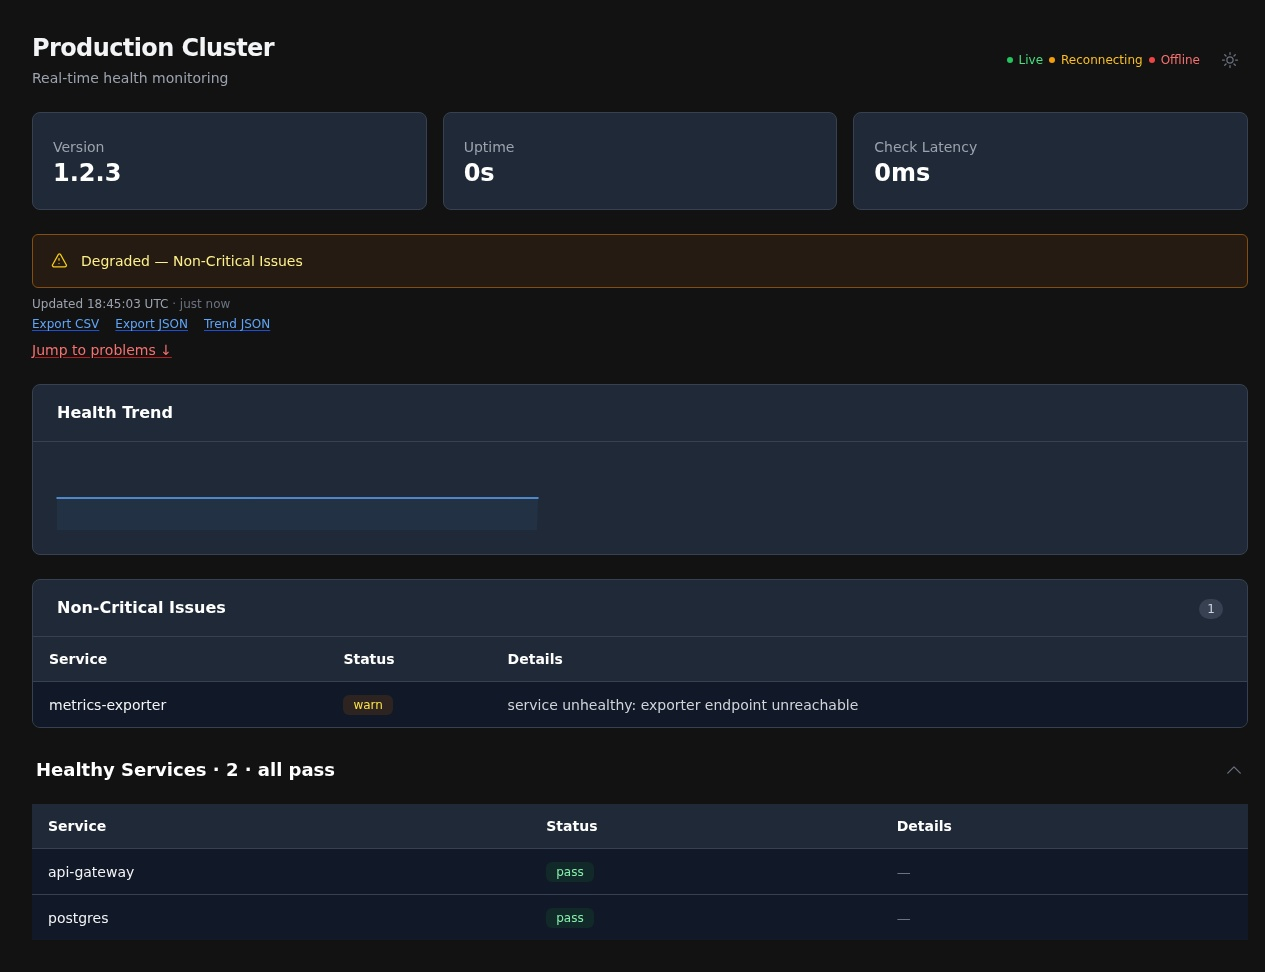
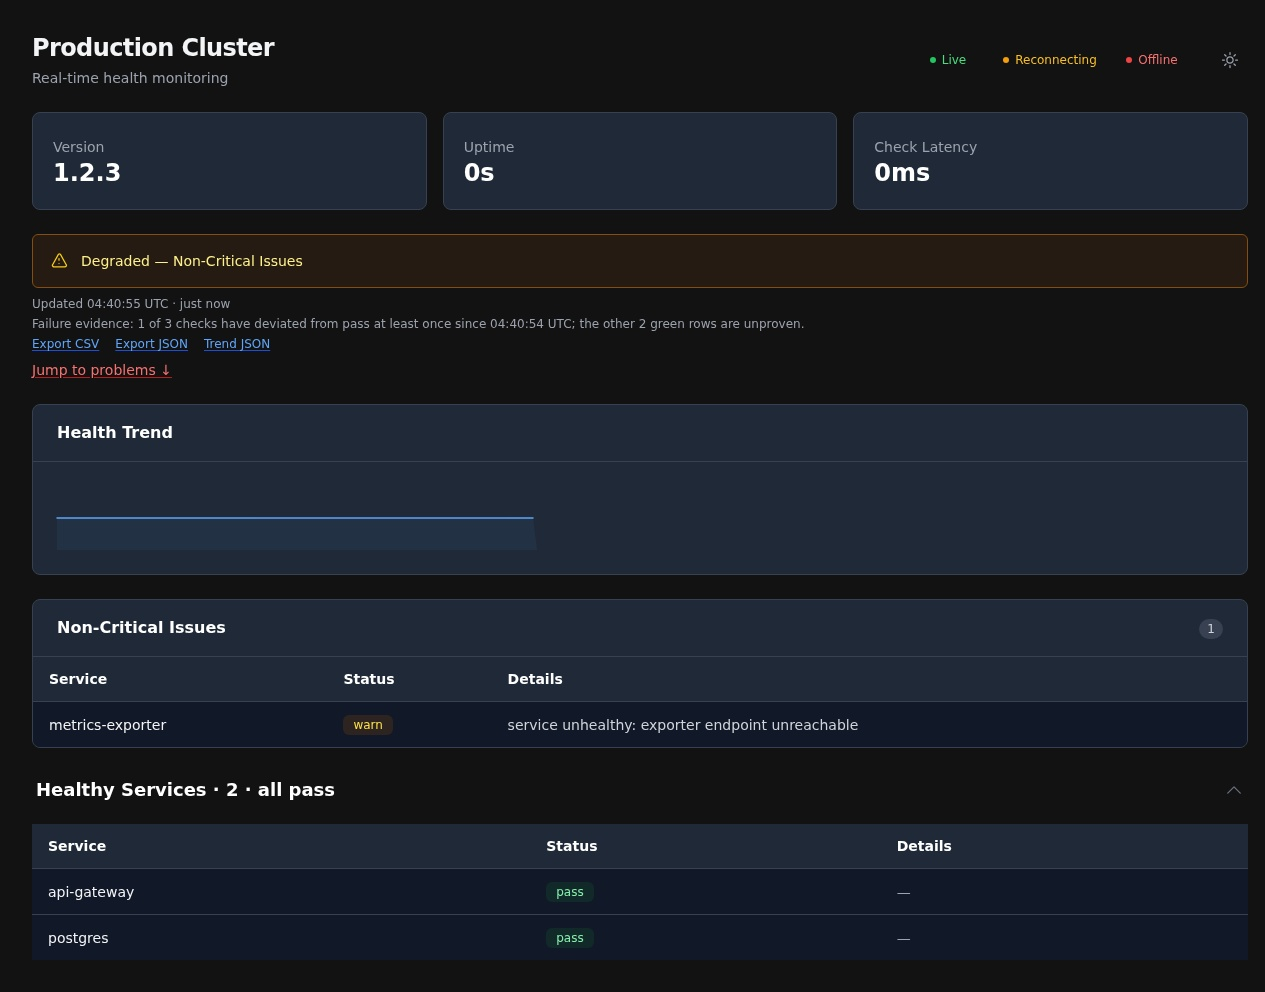
chore(release): v0.8.0 — operator trust release
Truth-in-green evidence strip (per-check non-pass observation log,
truth strip under the Updated stamp, proven/unproven pass-badge
tooltips), WCAG AA status colors, mobile row stacking below sm,
single nonce-carried bootstrap script (page_scripts.templ split per
ADR-0001), templ-components v1.17.0 adopted with guard pins, and the
verify-release.sh / check-changelog.sh release tooling this cut was
the first to use.

diff --git a/page_scripts_templ.go b/page_scripts_templ.go
@@ -5,10 +5,11 @@ package dashboard
 
 //lint:file-ignore SA4006 This context is only used if a nested component is present.
 
-import "github.com/a-h/templ"
-import templruntime "github.com/a-h/templ/runtime"
-
-import "github.com/larsartmann/templ-components/utils"
+import (
+	"github.com/a-h/templ"
+	templruntime "github.com/a-h/templ/runtime"
+	"github.com/larsartmann/templ-components/utils"
+)
 
 // Page-level scripts and their markup-only companions, split out of
 // view.templ per the ADR-0001 file-split rationale: the dashboard shell and
@@ -57,7 +58,7 @@ func themeToggle() templ.Component {
 			templ_7745c5c3_Var1 = templ.NopComponent
 		}
 		ctx = templ.ClearChildren(ctx)
-		var templ_7745c5c3_Var2 = []any{"rounded-md p-2 text-gray-500 dark:text-gray-400 hover:bg-gray-100 dark:hover:bg-gray-800 hover:text-gray-600 dark:hover:text-gray-300 ", utils.TransitionColors}
+		templ_7745c5c3_Var2 := []any{"rounded-md p-2 text-gray-500 dark:text-gray-400 hover:bg-gray-100 dark:hover:bg-gray-800 hover:text-gray-600 dark:hover:text-gray-300 ", utils.TransitionColors}
 		templ_7745c5c3_Err = templ.RenderCSSItems(ctx, templ_7745c5c3_Buffer, templ_7745c5c3_Var2...)
 		if templ_7745c5c3_Err != nil {
 			return templ_7745c5c3_Err

diff --git a/view_templ.go b/view_templ.go
@@ -5,14 +5,14 @@ package dashboard
 
 //lint:file-ignore SA4006 This context is only used if a nested component is present.
 
-import "github.com/a-h/templ"
-import templruntime "github.com/a-h/templ/runtime"
-
 import (
 	"fmt"
 	"strconv"
 	"time"
 	"unicode/utf8"
+
+	"github.com/a-h/templ"
+	templruntime "github.com/a-h/templ/runtime"
 
 	health "github.com/larsartmann/go-health"
 	"github.com/larsartmann/templ-components/datastar"
@@ -1023,7 +1023,7 @@ func groupCountBadge(count int) templ.Component {
 			templ_7745c5c3_Var36 = templ.NopComponent
 		}
 		ctx = templ.ClearChildren(ctx)
-		var templ_7745c5c3_Var37 = []any{"ml-2 inline-flex items-center rounded-full px-2 py-0.5 text-xs font-medium tabular-nums", "bg-gray-100 text-gray-600 dark:bg-gray-700 dark:text-gray-300"}
+		templ_7745c5c3_Var37 := []any{"ml-2 inline-flex items-center rounded-full px-2 py-0.5 text-xs font-medium tabular-nums", "bg-gray-100 text-gray-600 dark:bg-gray-700 dark:text-gray-300"}
 		templ_7745c5c3_Err = templ.RenderCSSItems(ctx, templ_7745c5c3_Buffer, templ_7745c5c3_Var37...)
 		if templ_7745c5c3_Err != nil {
 			return templ_7745c5c3_Err

diff --git a/dashboard.go b/dashboard.go
@@ -17,7 +17,7 @@ import (
 // CI enforces that this matches the latest git tag (the version-guard job
 // in .github/workflows/ci.yml). When cutting a release, bump this const in
 // the same commit you tag.
-const Version = "0.7.0"
+const Version = "0.8.0"
 
 // Prober is the minimal health-probe surface the dashboard renders. It is
 // satisfied by *health.Probe (the common case) and by go-health's

diff --git a/FEATURES.md b/FEATURES.md
@@ -159,7 +159,7 @@
 | Example app              | 🟢 `FULLY_FUNCTIONAL` | `example/main.go` — DEMO_TREND/DEMO_METRICS/DEMO_AUTH/DEMO_RATELIMIT/DEMO_DRAIN/DEMO_PUBLIC/DEMO_BASE_PATH env toggles                                                                                                                                               |
 | Docker + Prometheus demo | 🟢 `FULLY_FUNCTIONAL` | `Dockerfile`, `deploy/docker-compose.yml`, `deploy/prometheus.yml` — example + scraper                                                                                                                                                                               |
 | Domain language docs     | 🟢 `FULLY_FUNCTIONAL` | `docs/DOMAIN_LANGUAGE.md` — ubiquitous language glossary                                                                                                                                                                                                             |
-| Released (pkg.go.dev)    | 🟢 `FULLY_FUNCTIONAL` | Tagged v0.6.0 (proxy-verification via `go list -m @v0.6.0` immediately after push); v0.5.0 proxy-resolved 2026-09-04; zero replace directives                                                                                                                        |
+| Released (pkg.go.dev)    | 🟢 `FULLY_FUNCTIONAL` | Tagged v0.8.0 (verify via `bash scripts/verify-release.sh v0.8.0` immediately after push); v0.5.0+ proxy-resolved; zero replace directives                                                                                                                               |
 
 ## Known Gaps
 

diff --git a/AGENTS.md b/AGENTS.md
@@ -2,7 +2,7 @@
 
 Real-time health dashboard that composes [go-health](https://github.com/larsartmann/go-health) (health-checking SDK), [templ-components](https://github.com/larsartmann/templ-components) (UI rendering), [go-datastar](https://github.com/larsartmann/go-datastar) (Datastar SSE patch protocol), and [go-sse](https://github.com/larsartmann/go-sse) (SSE transport). The dashboard lives at a dedicated route (`/health`) and uses Datastar SSE for real-time updates. `/health` serves HTML by default but returns JSON when the client sends `Accept: application/json`. Kubernetes probe endpoints (`/healthz`, `/readyz`, `/startupz`) are JSON-only.
 
-**Module**: `github.com/larsartmann/go-health-dashboard` · **Package**: `dashboard` · **Go**: 1.26.7 · **Status**: v0.7.0
+**Module**: `github.com/larsartmann/go-health-dashboard` · **Package**: `dashboard` · **Go**: 1.26.7 · **Status**: v0.8.0
 
 ---
 

diff --git a/CHANGELOG.md b/CHANGELOG.md
@@ -17,6 +17,25 @@ forgetting.
 
 ### Added
 
+- Nothing yet.
+
+### Fixed
+
+- Nothing yet.
+
+## [0.8.0] - 2026-09-16
+
+Operator trust release: the dashboard now distinguishes proven greens
+from unproven ones (failure-evidence truth strip + per-badge tooltips,
+per the health-washing thesis), status text colors meet WCAG AA on the
+live page, the service table stacks into labeled cards below the `sm`
+breakpoint, and the three client scripts consolidate into one
+nonce-carried bootstrap. Ships with templ-components v1.17.0 (audited,
+browser-suite green) and the release-verification tooling first used
+to cut this very release.
+
+### Added
+
 - Mobile row stacking: below the `sm` breakpoint (640px) the service
   table stops laying out as a table — the header row hides and each row
   stacks into a labeled card (Service / Status / Details). Pure Tailwind
